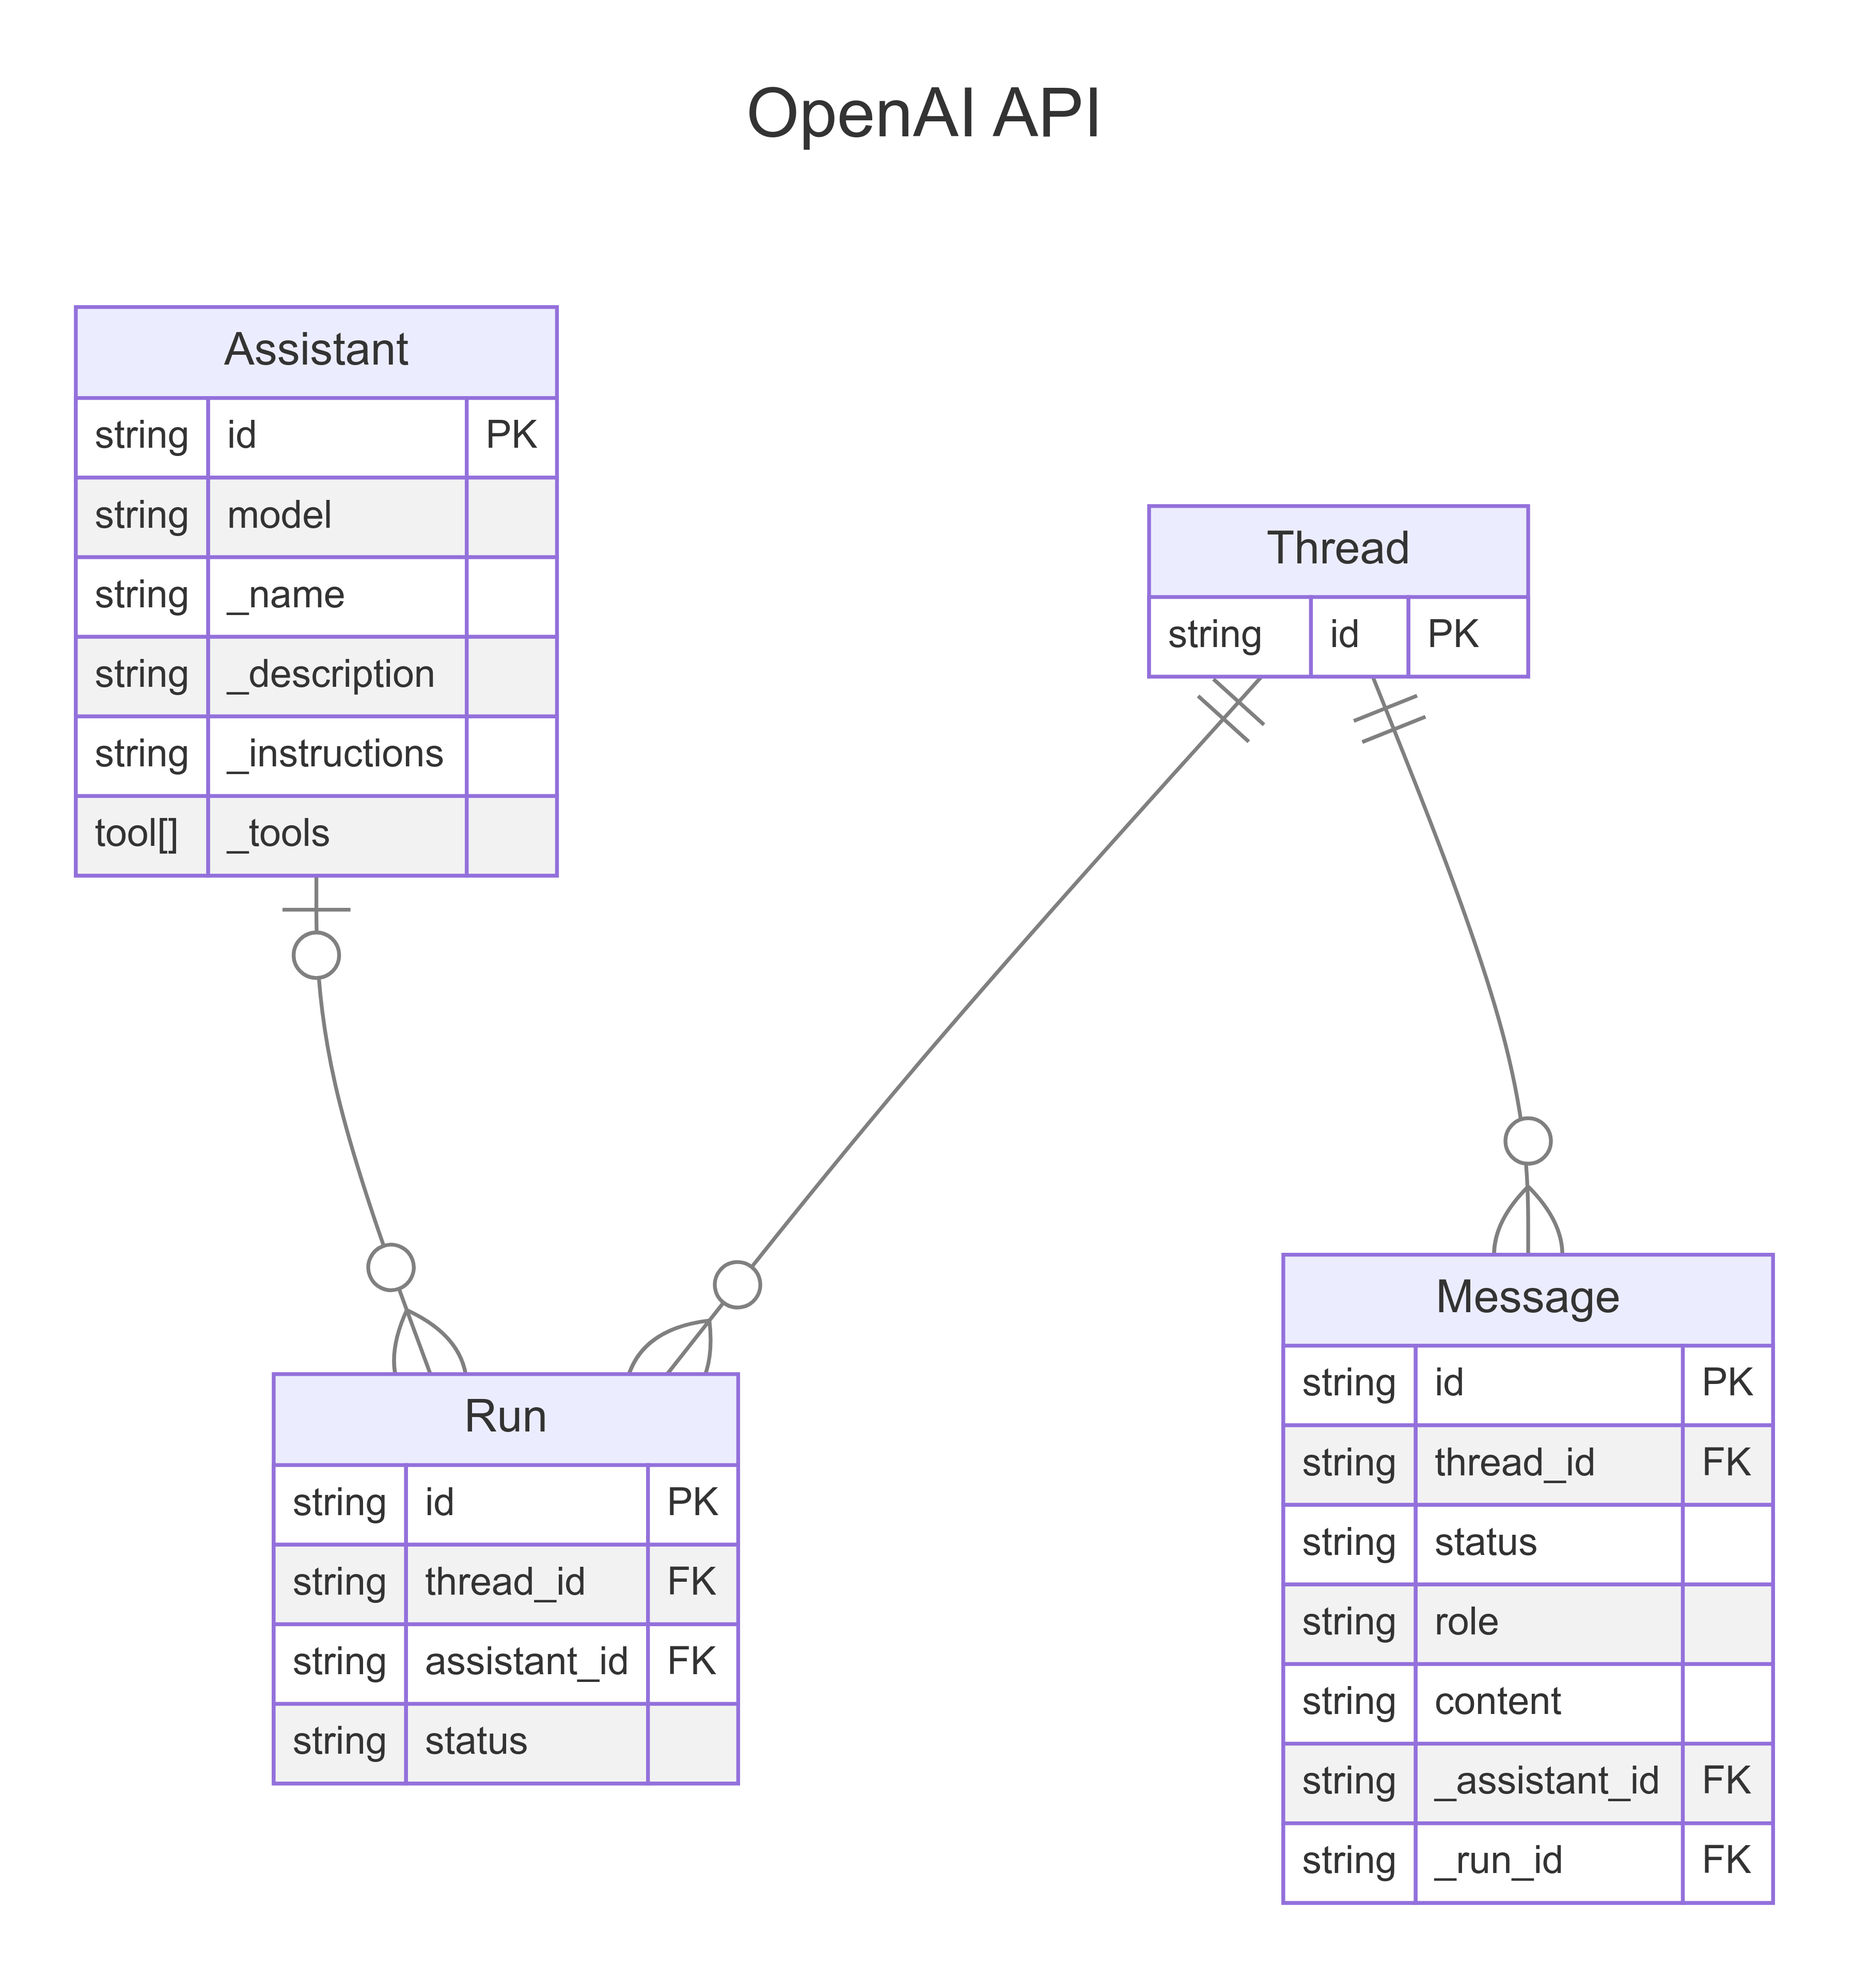
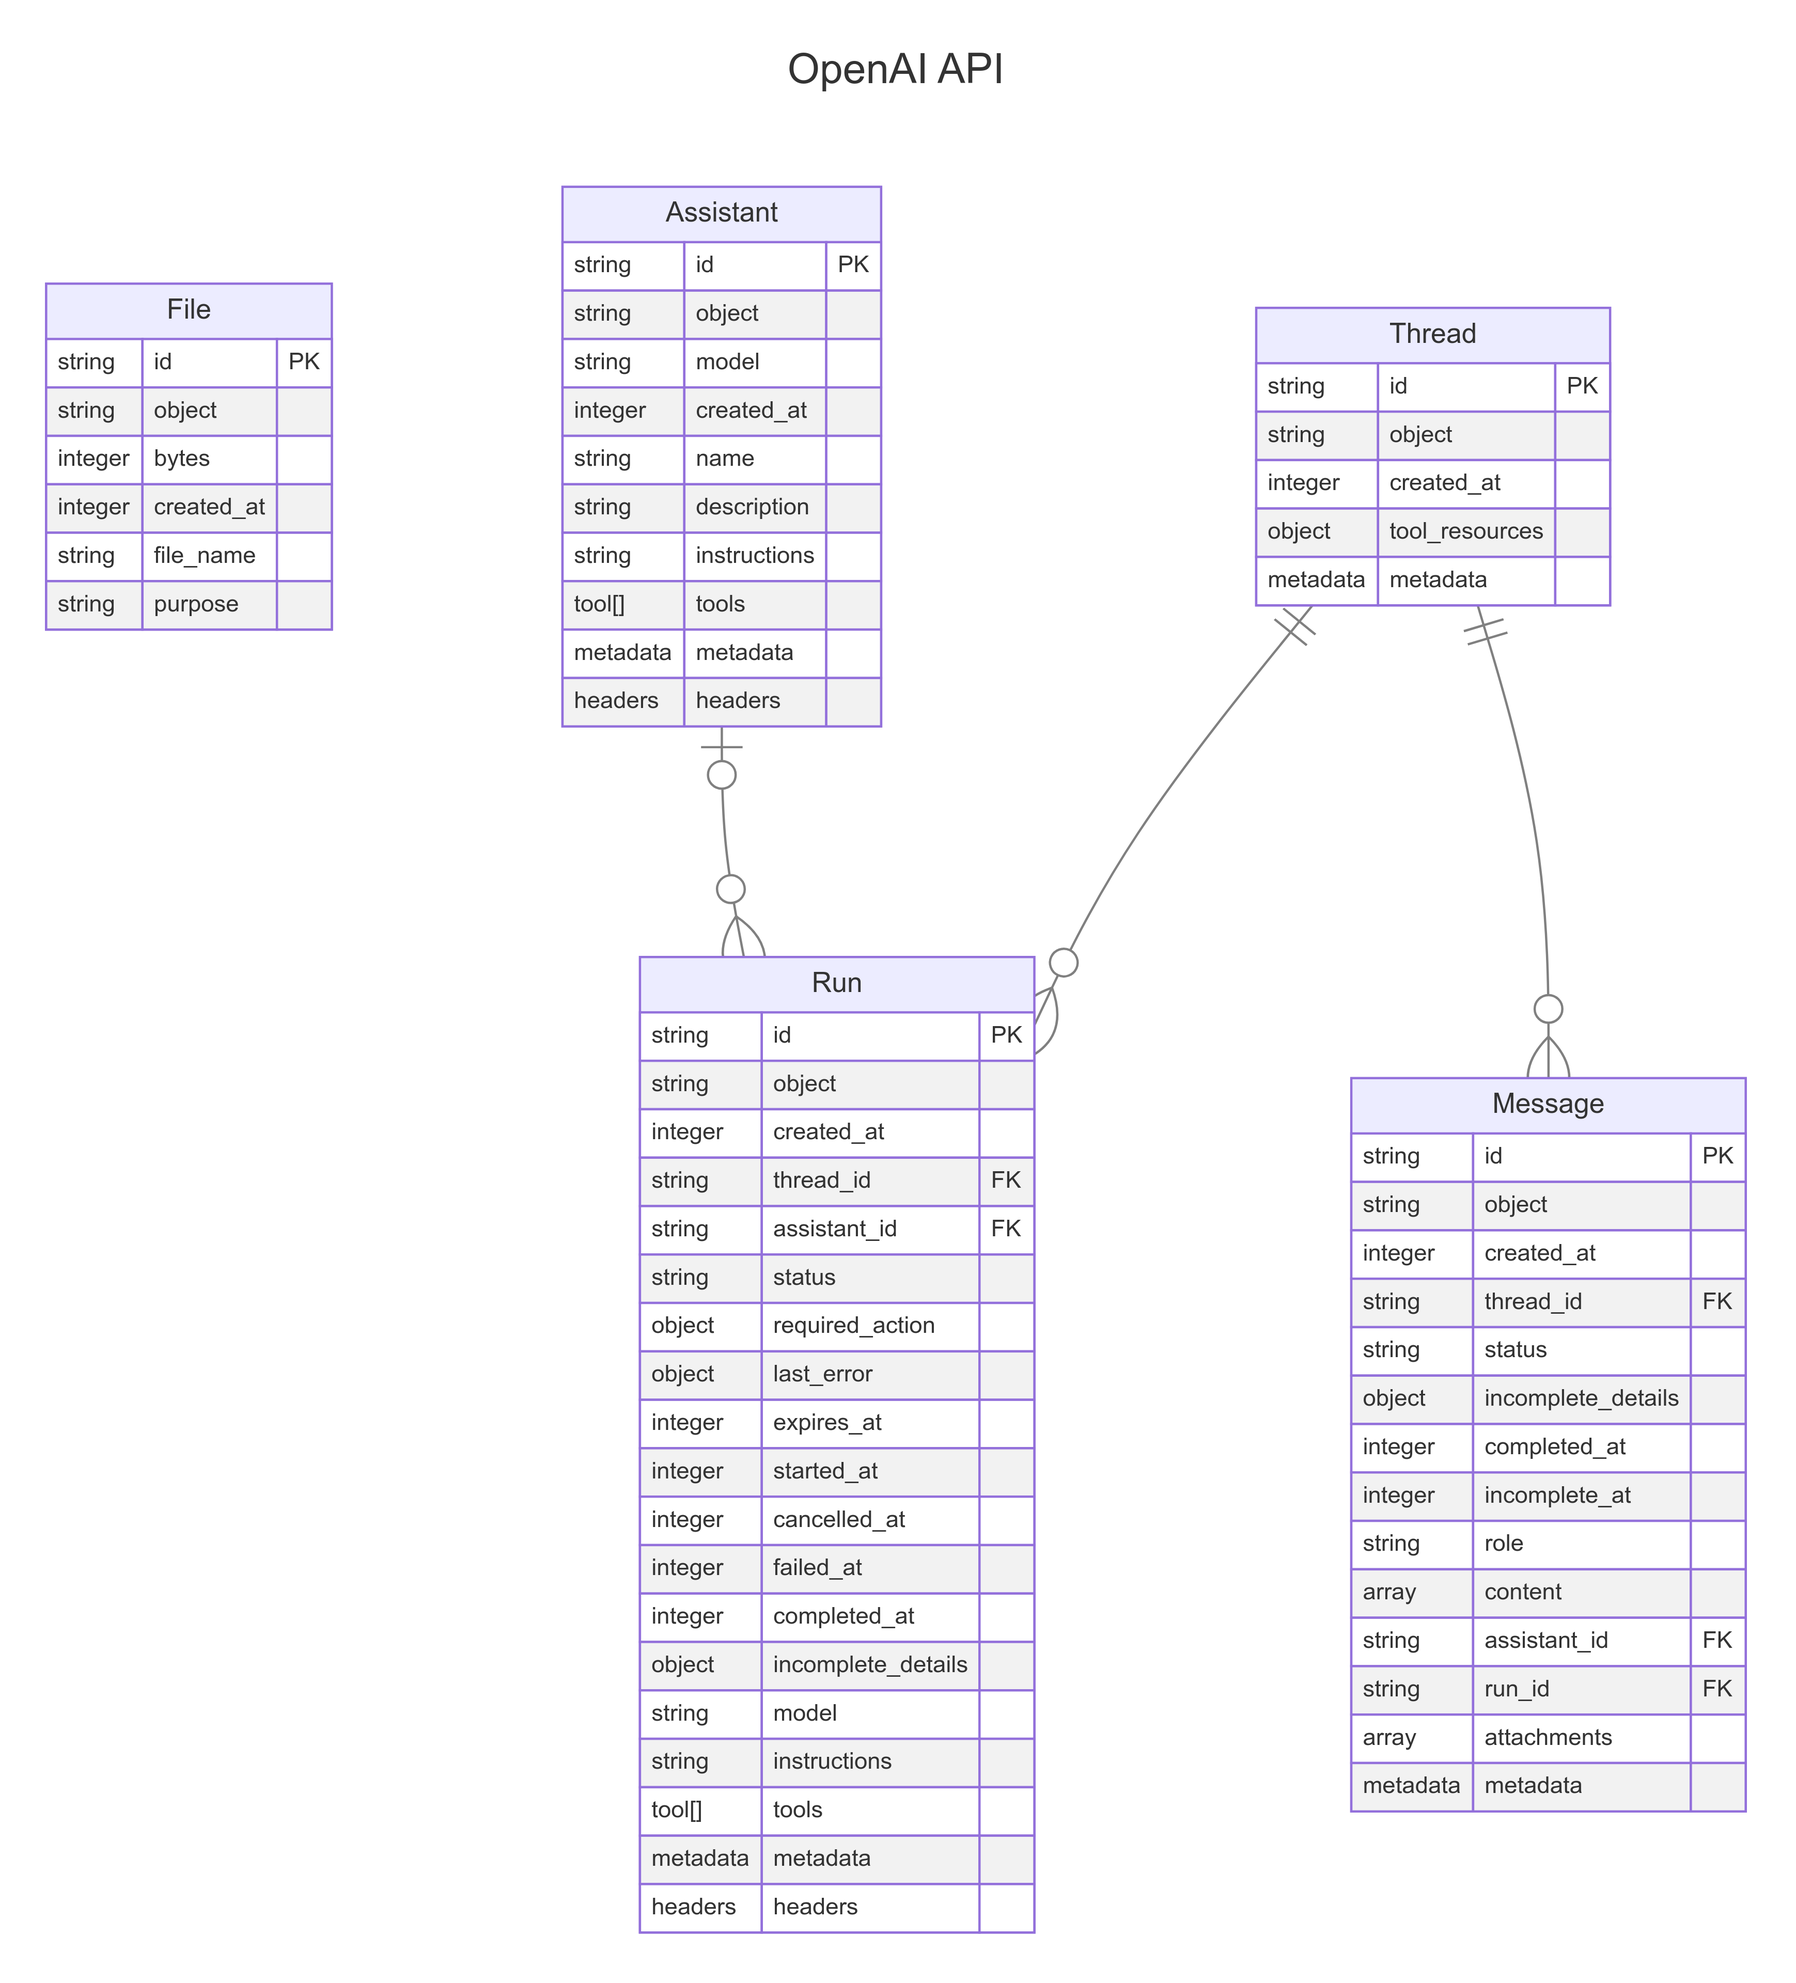
Update design

diff --git a/module/move/assistant/design/commands.md b/module/move/assistant/design/commands.md
@@ -9,6 +9,16 @@
 
 ## OpenAI
 
+### Files
+
+```shell
+assistant openai files upload <path> <purpose>
+assistant openai files list
+assistant openai files retrieve <id>
+assistant openai files delete <id>
+assistant openai files retrieve-content <id>
+```
+
 ### Assistants
 
 ```shell
